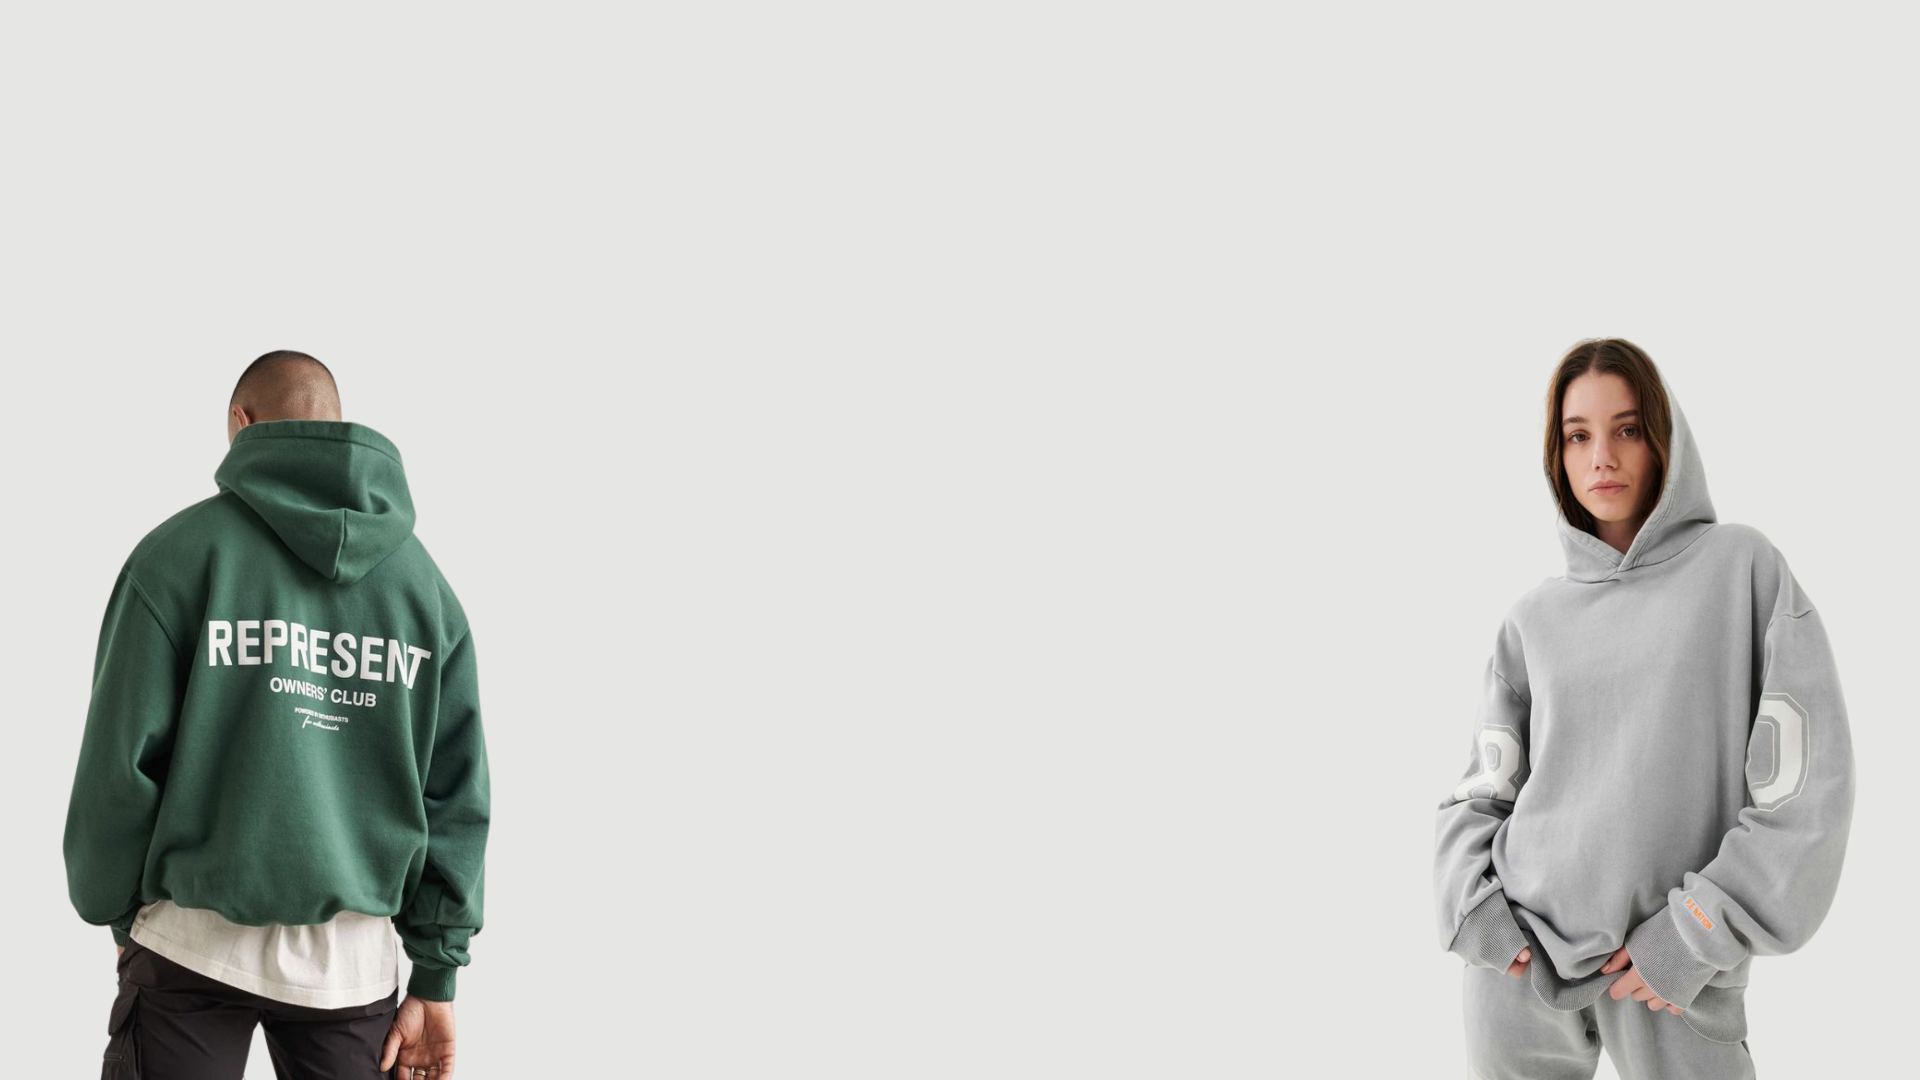
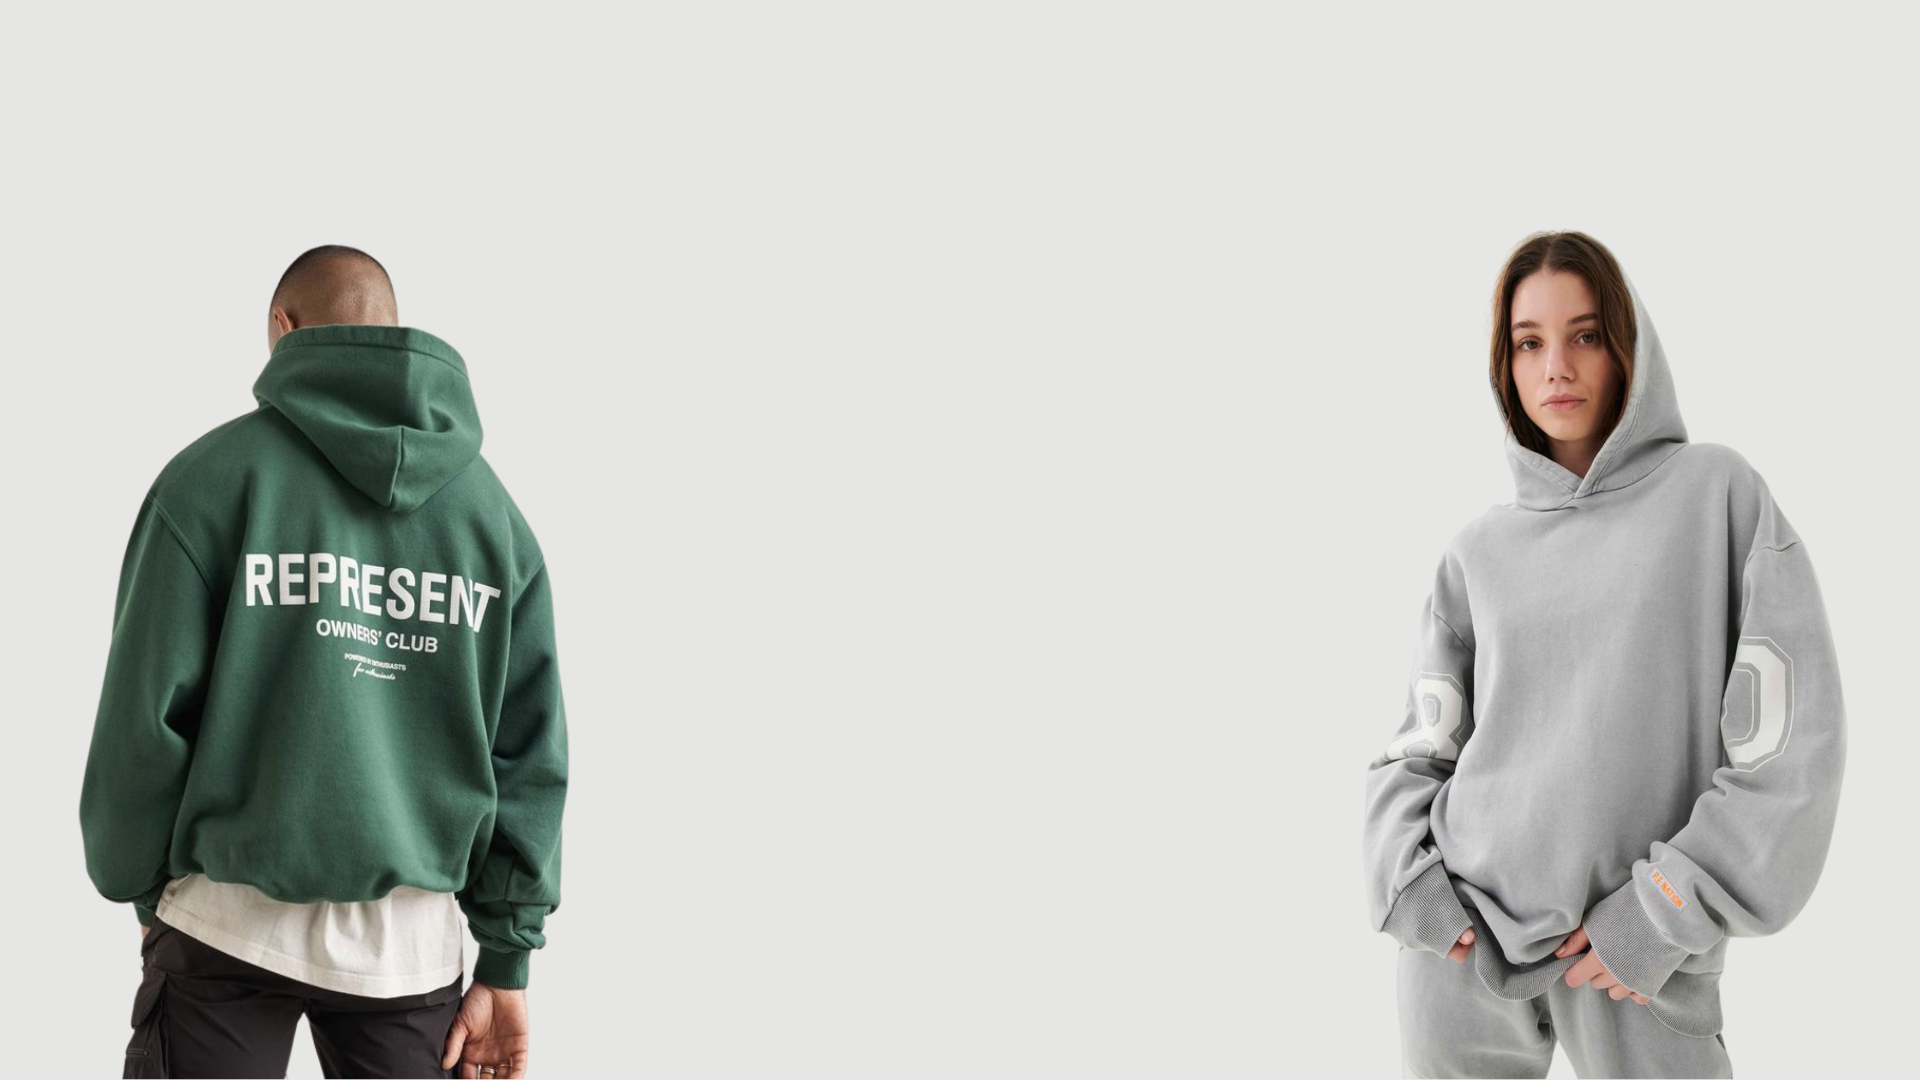
add advance heading

Changed region(s): [[0.0312, 0.2139, 0.3125, 1.0], [0.6875, 0.2139, 0.9688, 1.0]]

diff --git a/src/components/CountdownTimer/index.jsx b/src/components/CountdownTimer/index.jsx
@@ -1,0 +1,51 @@
+import React, { useEffect, useState } from 'react';
+import styles from './styles.module.scss';
+
+const CountdownTimer = ({ targetDate }) => {
+  const [timeLeft, setTimeLeft] = useState(calculateTimeLeft());
+
+  function calculateTimeLeft() {
+    const difference = +new Date(targetDate) - +new Date();
+    let timeLeft = {};
+
+    if (difference > 0) {
+      timeLeft = {
+        Days: Math.floor(difference / (1000 * 60 * 60 * 24)),
+        Hrs: Math.floor(
+          (difference % (1000 * 60 * 60 * 24)) / (1000 * 60 * 60)
+        ),
+        Mins: Math.floor((difference % (1000 * 60 * 60)) / (1000 * 60)),
+        Secs: Math.floor((difference % (1000 * 60)) / 1000)
+      };
+    }
+    return timeLeft;
+  }
+
+  useEffect(() => {
+    const timer = setTimeout(() => {
+      setTimeLeft(calculateTimeLeft());
+    }, 1000);
+    return () => clearTimeout(timer);
+  });
+
+  const formatNumber = (number) => {
+    return String(number).padStart(2, '0');
+  };
+
+  const timerComponents = [];
+
+  Object.keys(timeLeft).forEach((inverval) => {
+    if (timeLeft[inverval] !== undefined) {
+      timerComponents.push(
+        <span key={inverval} className={styles.box}>
+          {formatNumber(timeLeft[inverval])}{' '}
+          <span className={styles.timeMark}>{inverval}</span>{' '}
+        </span>
+      );
+    }
+  });
+
+  return timerComponents;
+};
+
+export default CountdownTimer;

diff --git a/src/components/AdvanceHeading/styles.module.scss b/src/components/AdvanceHeading/styles.module.scss
@@ -1,0 +1,34 @@
+@use '@styles/variables.module.scss' as *;
+@use '@styles/mixins.module.scss' as *;
+
+.container {
+  margin: 65px 0px 15px;
+  @include flex_box_custom(center, center, 0px);
+}
+
+.headline {
+  width: 100%;
+  height: 2px;
+  border-top: 1px solid #e1e1e1;
+  border-bottom: 1px solid #e1e1e1;
+  margin-top: 30px;
+}
+
+.containerMiddleBox {
+  width: 100%;
+  padding: 0px 60px;
+  line-height: 0px;
+  @include flex_box_custom(center, center, 0px);
+  flex-direction: column;
+}
+
+.desc {
+  font-size: 14px;
+  color: $thr_color;
+  text-transform: uppercase;
+}
+
+.title {
+  font-size: 24px;
+  color: $primary_color;
+}

diff --git a/src/components/AdvanceHeading/index.jsx b/src/components/AdvanceHeading/index.jsx
@@ -1,0 +1,19 @@
+import MainLayout from '@components/Layout';
+import styles from './styles.module.scss';
+
+const AdvanceHeading = () => {
+  return (
+    <MainLayout>
+      <div className={styles.container}>
+        <div className={styles.headline}></div>
+        <div className={styles.containerMiddleBox}>
+          <p className={styles.desc}>don't miss super offers </p>
+          <p className={styles.title}>Our best products</p>
+        </div>
+        <div className={styles.headline}></div>
+      </div>
+    </MainLayout>
+  );
+};
+
+export default AdvanceHeading;

diff --git a/src/components/HomePage/index.jsx b/src/components/HomePage/index.jsx
@@ -1,15 +1,21 @@
 import Header from '@components/Header';
 import Hero from '@components/Hero';
 import styles from './styles.module.scss';
+import AdvanceHeading from '@components/AdvanceHeading';
+import Info from '@components/Info';
+import HeadingListProduct from '@components/HeadingListProduct';
 
 const HomePage = () => {
   return (
-    <div>
+    <>
       <div className={styles.container}>
         <Header />
         <Hero />
+        <Info />
+        <AdvanceHeading />
+        <HeadingListProduct />
       </div>
-    </div>
+    </>
   );
 };
 

diff --git a/src/components/CountdownBanner/index.jsx b/src/components/CountdownBanner/index.jsx
@@ -1,0 +1,17 @@
+import CountdownTimer from '@components/CountdownTimer';
+import styles from './styles.module.scss';
+import Button from '@components/Button';
+
+const CountdownBanner = () => {
+  return (
+    <div className={styles.container}>
+      <div className={styles.containerTimer}>
+        <CountdownTimer targetDate={'2025-12-31T00:00:00'} />
+      </div>
+      <p className={styles.desc}>The Classic Make A Comeback</p>
+      <Button content={'Buy now'} />
+    </div>
+  );
+};
+
+export default CountdownBanner;

diff --git a/src/components/HeadingListProduct/index.jsx b/src/components/HeadingListProduct/index.jsx
@@ -1,0 +1,19 @@
+import MainLayout from '@components/Layout';
+import styles from './styles.module.scss';
+import CountdownBanner from '@components/CountdownBanner';
+
+const HeadingListProduct = () => {
+  return (
+    <MainLayout>
+      <div className={styles.container}>
+        <CountdownBanner />
+        <div className={styles.containerItem}>
+          <div>1</div>
+          <div>2</div>
+        </div>
+      </div>
+    </MainLayout>
+  );
+};
+
+export default HeadingListProduct;

diff --git a/src/components/CountdownBanner/styles.module.scss b/src/components/CountdownBanner/styles.module.scss
@@ -1,0 +1,21 @@
+@use '@styles/mixins.module.scss' as *;
+
+.container {
+  background-image: url('../../assets/images/countdown-banner-bg.JPG');
+  background-repeat: none;
+  background-size: cover;
+  width: calc(100% / 2);
+  height: 409px;
+  @include flex_box_custom(center, center, 20px);
+  flex-direction: column;
+}
+
+.containerTimer {
+  @include flex_box_custom(center, center, 20px);
+}
+
+.desc {
+  font-size: 28px;
+  color: #222;
+  margin-bottom: 5px;
+}

diff --git a/src/components/Hero/styles.module.scss b/src/components/Hero/styles.module.scss
@@ -3,7 +3,7 @@
 
 .container {
   @include flex_box_custom(center, center, 0px);
-  background-image: url(../../assets/images/hero-poster-2.png);
+  background-image: url(../../assets/images/hero-poster.png);
   background-size: cover;
   height: 750px;
   background-position: center;

diff --git a/src/components/HeadingListProduct/styles.module.scss b/src/components/HeadingListProduct/styles.module.scss
@@ -1,0 +1,10 @@
+@use '@styles/variables.module.scss' as *;
+@use '@styles/mixins.module.scss' as *;
+
+.container {
+  @include flex_box_custom(space-between, center, 10px);
+}
+
+.containerItem {
+  @include flex_box_custom(space-between, center, 10px);
+}

diff --git a/src/components/CountdownTimer/styles.module.scss b/src/components/CountdownTimer/styles.module.scss
@@ -1,0 +1,12 @@
+.box {
+  background-color: #4d4545;
+  padding: 10px;
+  border-radius: 4px;
+  color: white;
+  margin-top: 150px;
+
+  .timeMark {
+    color: blanchedalmond;
+    font-size: 18px;
+  }
+}

diff --git a/src/App.jsx b/src/App.jsx
@@ -1,11 +1,9 @@
 import HomePage from '@components/HomePage';
-import Info from '@components/Info';
 
 function App() {
   return (
     <>
       <HomePage />
-      <Info />
     </>
   );
 }

diff --git a/src/components/Info/styles.module.scss b/src/components/Info/styles.module.scss
@@ -5,6 +5,7 @@
   background-color: $primary_color;
   margin-top: -75px;
   padding: 20px 50px;
+  border-radius: 4px;
   @include flex_box_custom(space-between, center, 0px);
 }
 
